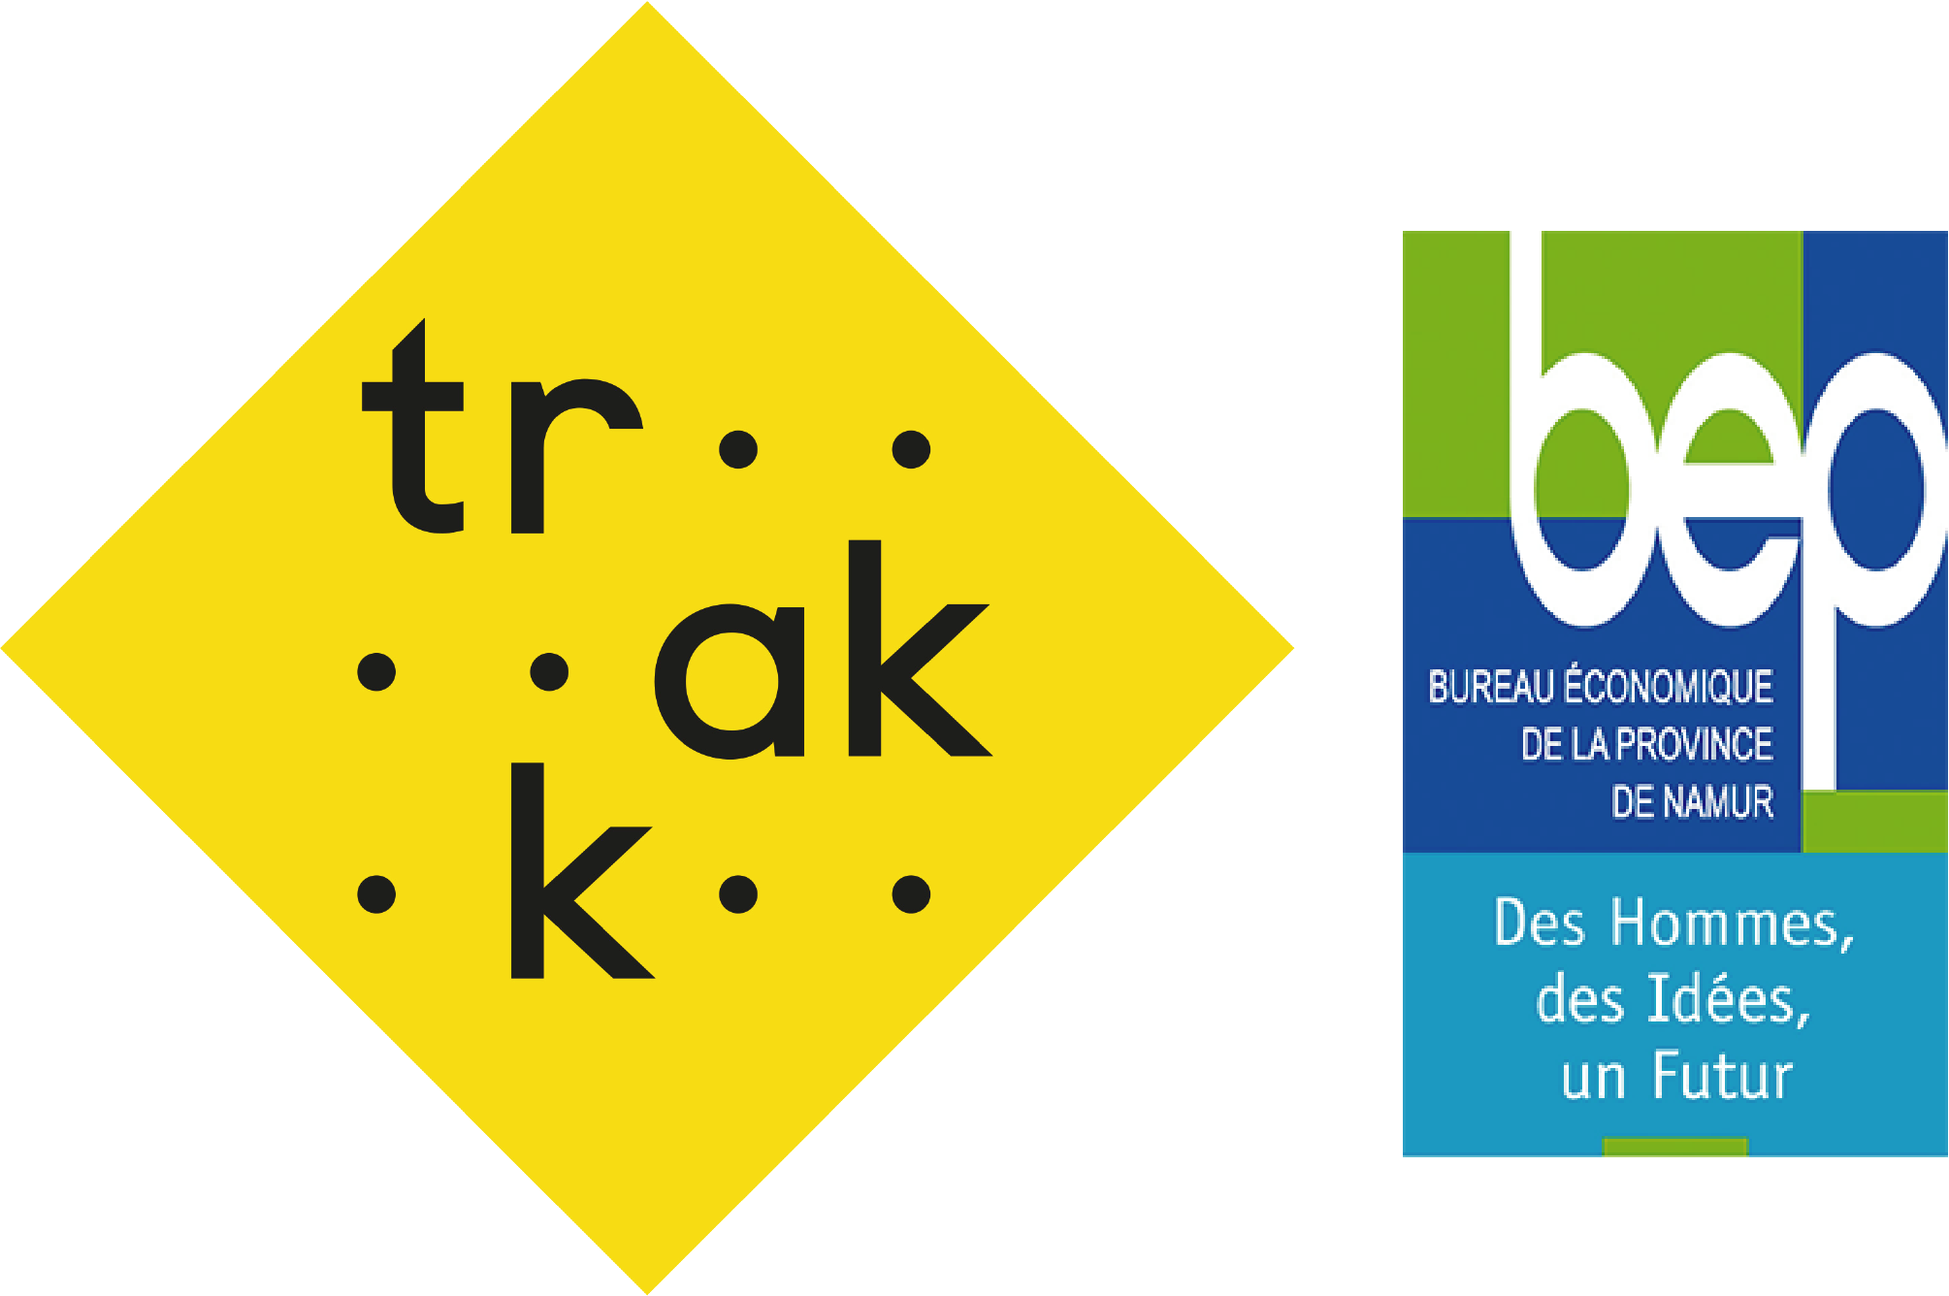
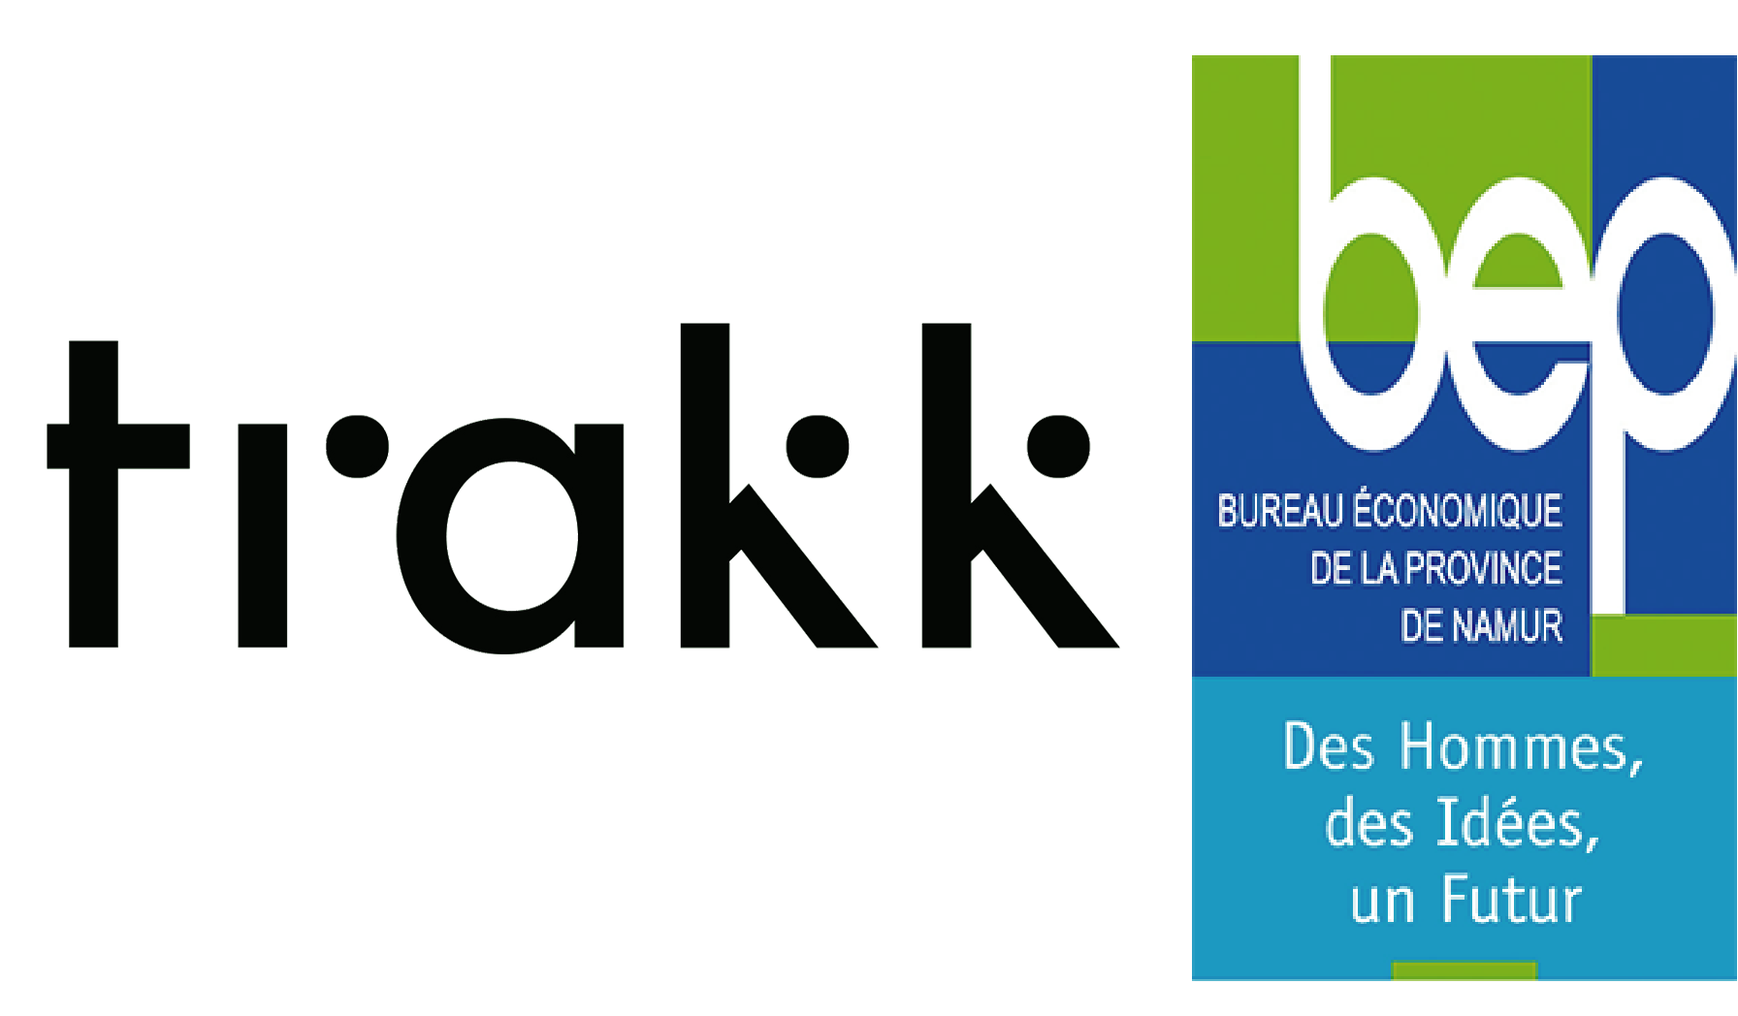
Add Digital Wallonia as sponsor
and enhance sponsor logos

diff --git a/src/pages/sponsors/Sponsors.js b/src/pages/sponsors/Sponsors.js
@@ -1,185 +1,227 @@
-import React, { Component } from 'react';
+import React, {Component} from 'react';
 
 import {Hero} from "../../components/hero/hero";
-import { Topic } from "../../components/topic/topic";
+import {Topic} from "../../components/topic/topic";
 
 import "./Sponsors.css";
 
 export class Sponsors extends Component {
 
-  render() {
-    return (
-      <div id="home-page">
-        <Hero title='Sponsors du hackathon' content='Sans eux, rien ne serait possible !' hasArrow>
-          <div id="sponsors-list">
-            <a href="#ag_insurance">
-              <img className="sponsor-img"
-                src={"https://www.aginsurance.be/_Layouts/15/images/AG.Portal/AGInsurance_logo.svg"}
-                alt="Sponsor AG Insurance" />
-            </a>
-            <a href="#mutualite_chretienne">
-              <img className="sponsor-img"
-                src={"https://www.mc.be/media/Logo_MC_button_sans_slogan_PNG_tcm49-28476.png"}
-                alt="Sponsor Mutualité Chrétienne" />
-            </a>
-            <a href="#trakk">
-              <img className="sponsor-img"
-                src={"https://www.challenge-entreprendre.be/media/media558d6a755880a.png"}
-                alt="Sponsor Trakk" />
-            </a>
-            <a href="#trakk">
-              <img className="sponsor-img"
-                src={"https://www.bep.be/wp-content/themes/syltaen/_2_assets/img/logo_bep.png"}
-                alt="Sponsor BEP" />
-            </a>
-            <a href="#gerontopole">
-              <img className="sponsor-img"
-                src={process.env.REACT_APP_PUBLIC_URL + "gerontopole.png"}
-                alt="Gérontopôle Namur" />
-            </a>
-            <a href="#unamur">
-              <img className="sponsor-img"
-                src={process.env.REACT_APP_PUBLIC_URL + "sponsors/logo_unif.png"}
-                alt="Université de Namur" />
-            </a>
-          </div>
-        </Hero>
+    render() {
+        return (
+            <div id="home-page">
+                <Hero title='Sponsors du hackathon' content='Sans eux, rien ne serait possible !' hasArrow>
+                    <div id="sponsors-list">
+                        <a href="#ag_insurance">
+                            <img className="sponsor-img"
+                                 src={process.env.REACT_APP_PUBLIC_URL + "ag_insurance_logo.png"}
+                                 alt="Sponsor AG Insurance"/>
+                        </a>
+                        <a href="#mutualite_chretienne">
+                            <img className="sponsor-img"
+                                 src={"https://www.mc.be/media/Logo_MC_button_sans_slogan_PNG_tcm49-28476.png"}
+                                 alt="Sponsor Mutualité Chrétienne"/>
+                        </a>
+                        <a href="#digital-wallonia">
+                            <img className="sponsor-img"
+                                 src={process.env.REACT_APP_PUBLIC_URL + "digital_wallonia_logo.png"}
+                                 alt="Digital Wallonia"/>
+                        </a>
+                        <a href="#trakk">
+                            <img className="sponsor-img"
+                                 src={process.env.REACT_APP_PUBLIC_URL + "trakk_logo.png"}
+                                 alt="Sponsor Trakk"/>
+                        </a>
+                        <a href="#trakk">
+                            <img className="sponsor-img"
+                                 src={"https://www.bep.be/wp-content/themes/syltaen/_2_assets/img/logo_bep.png"}
+                                 alt="Sponsor BEP"/>
+                        </a>
+                        <a href="#gerontopole">
+                            <img className="sponsor-img"
+                                 src={process.env.REACT_APP_PUBLIC_URL + "gerontopole_logo.png"}
+                                 alt="Gérontopôle Namur"/>
+                        </a>
+                        <a href="#unamur">
+                            <img className="sponsor-img"
+                                 src={process.env.REACT_APP_PUBLIC_URL + "sponsors/logo_unif.png"}
+                                 alt="Université de Namur"/>
+                        </a>
+                    </div>
+                </Hero>
 
 
-        <Topic img={{
-          src: "https://www.aginsurance.be/_Layouts/15/images/AG.Portal/AGInsurance_logo.svg",
-          alt: "AGInsurance"
-        }}
-          link="https://www.aginsurance.be"
-          right>
-          <h2 id="ag_insurance">
-            AG Insurance
+                <Topic img={{
+                    src: "https://www.aginsurance.be/_Layouts/15/images/AG.Portal/AGInsurance_logo.svg",
+                    alt: "AGInsurance"
+                }}
+                       link="https://www.aginsurance.be"
+                       right>
+                    <h2 id="ag_insurance">
+                        AG Insurance
                     </h2>
-          <p>
-            Vous voulez faire la différence ? Pour nos clients, vos collègues et vous-même ? Prendre des
-            responsabilités, faire avancer les choses et obtenir des résultats, ça vous parle ? Chez AG,
-            c’est parfaitement possible. Vous y trouverez un environnement de travail professionnel,
-            dynamique et chaleureux où vous pourrez réellement faire avancer les choses. Montrez-nous ce que
-            vous avez dans le ventre. Osez en faire plus pour nos clients et vos collègues. Et prenez votre
-            carrière en main.
+                    <p>
+                        Vous voulez faire la différence ? Pour nos clients, vos collègues et vous-même ? Prendre des
+                        responsabilités, faire avancer les choses et obtenir des résultats, ça vous parle ? Chez AG,
+                        c’est parfaitement possible. Vous y trouverez un environnement de travail professionnel,
+                        dynamique et chaleureux où vous pourrez réellement faire avancer les choses. Montrez-nous ce que
+                        vous avez dans le ventre. Osez en faire plus pour nos clients et vos collègues. Et prenez votre
+                        carrière en main.
                     </p>
-          <p>
-            Lancez-vous. Optez pour un super job chez le premier assureur du pays.
+                    <p>
+                        Lancez-vous. Optez pour un super job chez le premier assureur du pays.
                     </p>
-        </Topic>
+                </Topic>
 
 
-        <Topic img={{
-          src: process.env.REACT_APP_PUBLIC_URL + "mc_eneo.png",
-          alt: "Mutualité Chrétienne"
-        }}
-          link="https://www.mc.be/"
-          left>
-          <h2 id="mutualite_chretienne">
-            Mutualité Chrétienne
+                <Topic img={{
+                    src: process.env.REACT_APP_PUBLIC_URL + "mc_eneo.png",
+                    alt: "Mutualité Chrétienne"
+                }}
+                       link="https://www.mc.be/"
+                       left>
+                    <h2 id="mutualite_chretienne">
+                        Mutualité Chrétienne
                     </h2>
-          <p>
-            Forte de son histoire et de son expérience, la Mutualité chrétienne s'intègre dans un <b>environnement
+                    <p>
+                        Forte de son histoire et de son expérience, la Mutualité chrétienne s'intègre dans un <b>environnement
                         en évolution permanente</b>. L'ensemble du contexte social, économique et politique agit sur
                         l'institution et sur les individus : le cadre législatif se complexifie, les nouvelles
                         technologies s'imposent, de nouveaux besoins émergent dans le champ de la santé et des soins de
                         santé. Dans ce contexte, la force et l'originalité de la Mutualité chrétienne résident dans son
                         identité d'assureur social, de mouvement social et d'entrepreneur social.
                     </p>
-          <p>
-            La Mutualité chrétienne, c'est un <b>réseau associatif dynamique</b> composé de services et de
+                    <p>
+                        La Mutualité chrétienne, c'est un <b>réseau associatif dynamique</b> composé de services et de
                         mouvements associés actifs dans le domaine de l'aide sociale, de la promotion de la santé et de
                         l'éducation permanente des adultes et des jeunes.
                     </p>
-          <p>
-            <b>Énéo</b>, le mouvement social des aînés, vise plus particulièrement à briser l'isolement des
+                    <p>
+                        <b>Énéo</b>, le mouvement social des aînés, vise plus particulièrement à briser l'isolement des
                         aînés en leur proposant des activités et actions de proximité, créant et facilitant le lien
                         social, la convivialité, la connaissance, la pratique du sport et les sources de bien-être. En
                         les informant de leurs droits et de l’actualité afin de développer leur esprit critique, Énéo a
                         pour objectif de défendre et valoriser le rôle et la place des aînés dans la société, de manière
                         collective tout en luttant contre les inégalités sociales.
                     </p>
-          <p>
-            A travers sa mission d’entrepreneur social, la MC s’investit dans <b>l’innovation sociale</b> et
+                    <p>
+                        A travers sa mission d’entrepreneur social, la MC s’investit dans <b>l’innovation sociale</b> et
                         technologique pour apporter des réponses aux défis sociaux et de santé, notamment liés aux
                         enjeux du vieillissement de la population et de la perte d’autonomie.
                     </p>
-          <p>
-            Entourée d'un réseau médico-social varié, la MC soutient et développe la création de services
-            médico-sociaux efficaces et accessibles (Aides et Soins à Domicile, Qualias, Vitatel, Solival,
-            Maisons de Repos (et de soins), hôpitaux,…) et se place comme un partenaire responsable à
-            différents niveaux de pouvoir pour veiller à leur qualité.
+                    <p>
+                        Entourée d'un réseau médico-social varié, la MC soutient et développe la création de services
+                        médico-sociaux efficaces et accessibles (Aides et Soins à Domicile, Qualias, Vitatel, Solival,
+                        Maisons de Repos (et de soins), hôpitaux,…) et se place comme un partenaire responsable à
+                        différents niveaux de pouvoir pour veiller à leur qualité.
                     </p>
-        </Topic>
+                </Topic>
 
 
-        <Topic img={{
-          src: process.env.REACT_APP_PUBLIC_URL + "trakk_bep.png",
-          alt: "Trakk et BEP"
-        }}
-          link="https://www.trakk.be"
-          right>
-          <h2 id="trakk">
-            Trakk et BEP
+                <Topic img={{
+                    src: process.env.REACT_APP_PUBLIC_URL + "digital_wallonia.png",
+                    alt: "Digital Wallonia"
+                }}
+                       link="https://www.digitalwallonia.be"
+                       right>
+                    <h2 id="digital-wallonia">Digital Wallonia</h2>
+
+                    <h5>Stratégie</h5>
+                    <p>Programme cadre de la Wallonie numérique qui fixe les priorités et objectifs des politiques
+                        publiques et cadre les soutiens aux initiatives privées en faveur du numérique.</p>
+
+                    <h5>Plateforme</h5>
+                    <p>Vitrine du secteur du numérique en Wallonie qui propose des contenus de référence et fournit des
+                        services aux acteurs engagés dans la mise en œuvre de la stratégie numérique.</p>
+
+                    <h5>Marque</h5>
+                    <p>Identité de l’ambition numérique de la Wallonie et de ses citoyens qui fédère les acteurs et les
+                        initiatives publiques et privées lancées dans le cadre de la stratégie numérique.</p>
+
+                    <h5>5 thèmes</h5>
+                    <ol>
+                        <li>Secteur du Numérique</li>
+                        <li>Économie numérique</li>
+                        <li>Compétences numériques</li>
+                        <li>Administration numérique</li>
+                        <li>Territoire numérique</li>
+                    </ol>
+
+                </Topic>
+
+
+                <Topic img={{
+                    src: process.env.REACT_APP_PUBLIC_URL + "trakk_bep.png",
+                    alt: "Trakk et BEP"
+                }}
+                       link="https://www.trakk.be"
+                       left>
+                    <h2 id="trakk">
+                        Trakk et BEP
                     </h2>
-          <p>Étudiant ou jeune diplômé plein d’idée ? La niak d’entreprendre et de mener un projet de A jusque
-          Z ? Sais-tu que LinKube, l’incubateur étudiant du BEP de la province de Namur, t’offre un
-          accompagnement spécifique : coaching personnalisé, ateliers, expertises pointues,… Tu rêves de
+                    <p>Étudiant ou jeune diplômé plein d’idée ? La niak d’entreprendre et de mener un projet de A jusque
+                        Z ? Sais-tu que LinKube, l’incubateur étudiant du BEP de la province de Namur, t’offre un
+                        accompagnement spécifique : coaching personnalisé, ateliers, expertises pointues,… Tu rêves de
                         monter ta start up ? Contacte-nous !</p>
-          <p>Mais le TRAKK, c’est quoi ? Tu as envie d’oser, expérimenter, entreprendre, innover de façon plus
-          créative ? Le TRAKK, c’est 3 partenaires : le KIKK, l’UNamur et le BEP. 3 fois plus d’idées et
-          d’expériences à partager dans ce lieu composé de différents espaces mis à ta disposition :
-          coworking, bureaux, fablab,… Rejoindre le TRAKK peut se faire par différentes portes ! Celle du
-          bâtiment au plein centre de Namur, ou en participant à des conférences, des ateliers, ou encore
+                    <p>Mais le TRAKK, c’est quoi ? Tu as envie d’oser, expérimenter, entreprendre, innover de façon plus
+                        créative ? Le TRAKK, c’est 3 partenaires : le KIKK, l’UNamur et le BEP. 3 fois plus d’idées et
+                        d’expériences à partager dans ce lieu composé de différents espaces mis à ta disposition :
+                        coworking, bureaux, fablab,… Rejoindre le TRAKK peut se faire par différentes portes ! Celle du
+                        bâtiment au plein centre de Namur, ou en participant à des conférences, des ateliers, ou encore
                         en venant y travailler ! </p>
-          <p>L’innovation est partout ! Le BEP a d’ailleurs développé un accompagnement spécifique pour la
-          Silver économie, cette économie dédiée aux seniors. Tu veux apporter ta pierre à l’édifice pour
+                    <p>L’innovation est partout ! Le BEP a d’ailleurs développé un accompagnement spécifique pour la
+                        Silver économie, cette économie dédiée aux seniors. Tu veux apporter ta pierre à l’édifice pour
                         le « bien vieillir » ? Encore une fois, le BEP est là ! </p>
-          <p>Le 11 février 2021 le Mind&Market se tiendra au TRAKK et rassemblera tous les projets sur la
-          Silver économie et issus de LinKube. Un chemin de possibles s’offre à toi pour concrétiser tes
+                    <p>Le 11 février 2021 le Mind&Market se tiendra au TRAKK et rassemblera tous les projets sur la
+                        Silver économie et issus de LinKube. Un chemin de possibles s’offre à toi pour concrétiser tes
                         beaux projets. On en discute ?</p>
-        </Topic>
+                </Topic>
 
 
-        <Topic img={{ src: process.env.REACT_APP_PUBLIC_URL + "gerontopole.png", alt: "Gérontôpole Namur" }}
-          link="https://www.province.namur.be/index.php?rub=page&page=912"
-          left>
-          <h2 id="gerontopole">
-            Gérontopôle Namur
-          </h2>
-          <p>
-            GéroNam, le Gérontopôle de la province de Namur est un projet développé à l’initiative de la
-            Province de Namur et co-construit avec des acteurs issus des secteurs du bien-vieillir. Il se
-            définit comme une communauté de personnes et d’organisations. Il est une ressource territoriale
-            pour les citoyens, l’ensemble des professionnels et des acteurs du bien-vieillir. C’est une
-            communauté d’échanges et d’actions qui place la personne âgée au centre de la réflexion et de
-              l’action. Sa finalité est centrée sur les aînés et s’articule autour de 4 axes :
-          </p>
-            <ul>
-              <li>L'autonomie</li>
-              <li>La qualité de vie</li>
-              <li>L'inclusion</li>
-              <li>L'empowerment</li>
-            </ul>
-            <p>
-              Envie de nous rejoindre ou de soumettre une idée ? Contactez-nous au 081 77 56 62 ou par mail
-              gerontopôle[@]province.namur.be
-            </p>
-        </Topic>
+                <Topic img={{src: process.env.REACT_APP_PUBLIC_URL + "gerontopole.png", alt: "Gérontôpole Namur"}}
+                       link="https://www.province.namur.be/index.php?rub=page&page=912"
+                       right>
+                    <h2 id="gerontopole">
+                        Gérontopôle Namur
+                    </h2>
+                    <p>
+                        GéroNam, le Gérontopôle de la province de Namur est un projet développé à l’initiative de la
+                        Province de Namur et co-construit avec des acteurs issus des secteurs du bien-vieillir. Il se
+                        définit comme une communauté de personnes et d’organisations. Il est une ressource territoriale
+                        pour les citoyens, l’ensemble des professionnels et des acteurs du bien-vieillir. C’est une
+                        communauté d’échanges et d’actions qui place la personne âgée au centre de la réflexion et de
+                        l’action. Sa finalité est centrée sur les aînés et s’articule autour de 4 axes :
+                    </p>
+                    <ul>
+                        <li>L'autonomie</li>
+                        <li>La qualité de vie</li>
+                        <li>L'inclusion</li>
+                        <li>L'empowerment</li>
+                    </ul>
+                    <p>
+                        Envie de nous rejoindre ou de soumettre une idée ? Contactez-nous au 081 77 56 62 ou par mail
+                        gerontopôle[@]province.namur.be
+                    </p>
+                </Topic>
 
-        <Topic img={{ src: process.env.REACT_APP_PUBLIC_URL + "sponsors/logo_unif_big.png", alt: "Gérontôpole Namur" }}
-          link="https://www.unamur.be/info"
-          right>
-          <h2 id="unamur">
-            Université de Namur
-          </h2>
-          <p>
-            Le Hackathon 2020 est organisé dans le cadre du 50e anniversaire de la Facultée d'Informatique de l'UNamur.
-            L'université et la faculté nous fournissent les locaux et le matériel nécessaires à l'organisation de cet évènement.
-          </p>
-        </Topic>
-      </div>
-    )
-  }
+                <Topic img={{
+                    src: process.env.REACT_APP_PUBLIC_URL + "sponsors/logo_unif_big.png",
+                    alt: "Gérontôpole Namur"
+                }}
+                       link="https://www.unamur.be/info"
+                       left>
+                    <h2 id="unamur">
+                        Université de Namur
+                    </h2>
+                    <p>
+                        Le Hackathon 2020 est organisé dans le cadre du 50e anniversaire de la Facultée d'Informatique
+                        de l'UNamur.
+                        L'université et la faculté nous fournissent les locaux et le matériel nécessaires à
+                        l'organisation de cet évènement.
+                    </p>
+                </Topic>
+            </div>
+        )
+    }
 
 }
